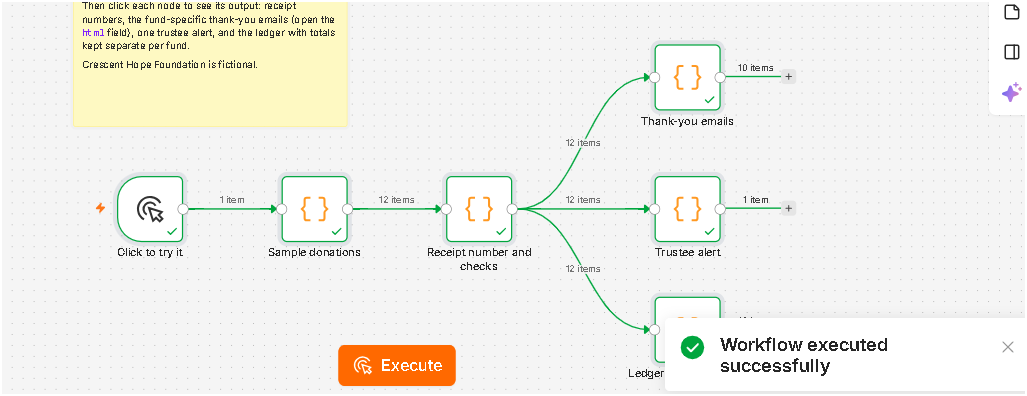
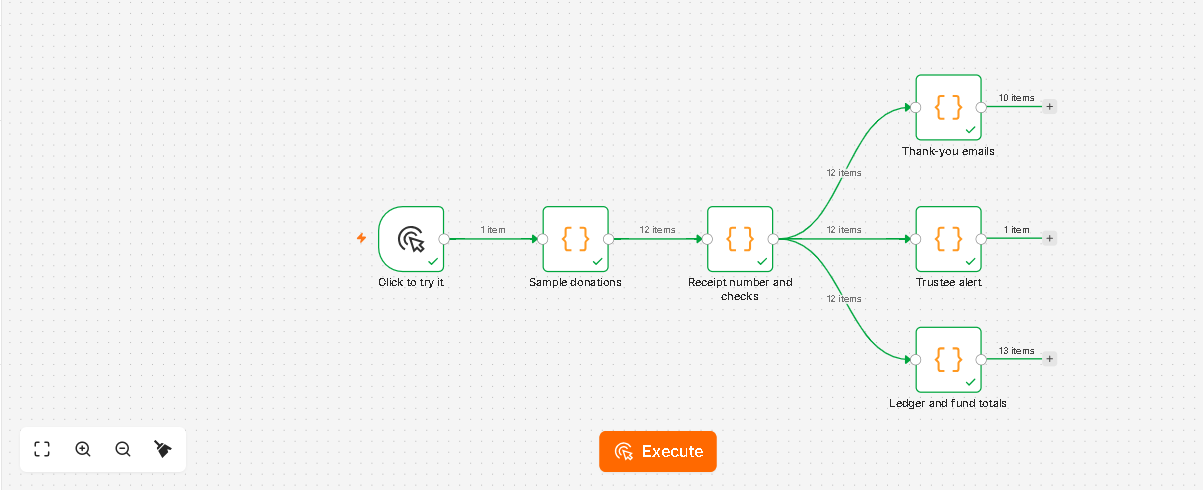
Use clean n8n run screenshot and add trustee alert evidence for demo 07

diff --git a/07-donation-thank-you/README.md b/07-donation-thank-you/README.md
@@ -121,7 +121,9 @@ The same flow is also built for [n8n](https://n8n.io), in the `n8n/` folder.
 
 The rules live in one Code node, **Receipt number and checks**. The large-gift threshold is `LARGE_GIFT` at the top of that node.
 
-![The try-it-now workflow after a run in n8n: 12 donations, 10 thank-you emails, 1 trustee alert](docs/n8n-run.png)
+![The try-it-now workflow after a run in n8n: 12 donations, 10 thank-you emails, 1 trustee alert, 13 ledger rows](docs/n8n-run.png)
+
+![The trustee alert from the same run, listing the four gifts a person should check](docs/n8n-trustee-alert.png)
 
 ![Thank-you email produced by the n8n workflow from the sample data](docs/n8n-email-output.png)
 
